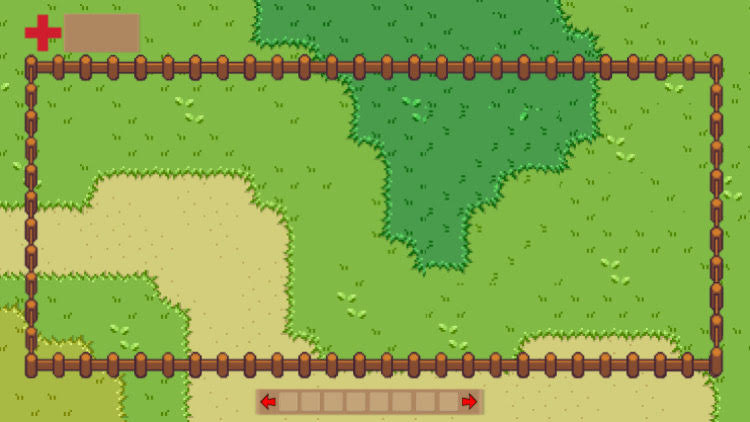
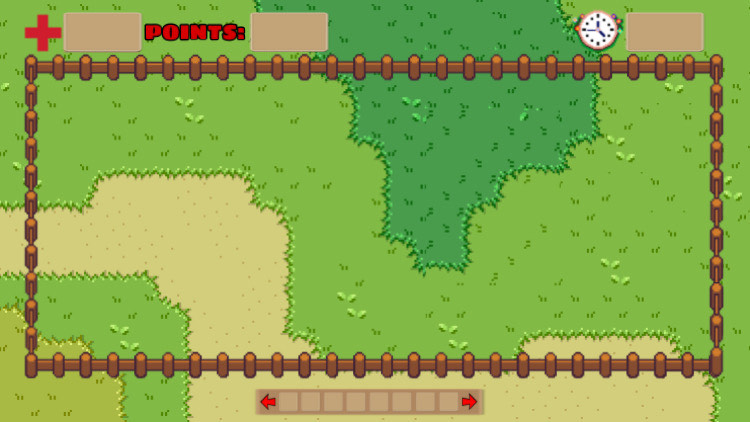
basic game mechanics

Changed region(s): [[0.0613, 0.0308, 0.46, 0.154], [0.7667, 0.0308, 0.9507, 0.1232], [0.6133, 0.9242, 0.644, 0.955]]

diff --git a/ForestKeeper/Game1.cs b/ForestKeeper/Game1.cs
@@ -10,11 +10,13 @@ namespace ForestKeeper
         Texture2D treeImage;
         Texture2D infectedImage;
         Texture2D trunkImage;
-        Vector2 gameSize;
+        Texture2D seedlingImage;
         Engine _engine;
         private GraphicsDeviceManager _graphics;
         private SpriteBatch _spriteBatch;
-
+        MouseState lastMouseState;
+        MouseState currentMouseState;
+        float timer = 0;
         public Game1()
         {
             _graphics = new GraphicsDeviceManager(this);
@@ -38,20 +40,34 @@ namespace ForestKeeper
             _spriteBatch = new SpriteBatch(GraphicsDevice);
             treeImage = Content.Load<Texture2D>("tree1");
             trunkImage = Content.Load<Texture2D>("trunk");
+            seedlingImage = Content.Load<Texture2D>("seedling");
             infectedImage = Content.Load<Texture2D>("infected tree");
             background = Content.Load<Texture2D>("backgroundInGame");
-            // TODO: use this.Content to load your game content here
         }
 
         protected override void Update(GameTime gameTime)
         {
             if (GamePad.GetState(PlayerIndex.One).Buttons.Back == ButtonState.Pressed || Keyboard.GetState().IsKeyDown(Keys.Escape))
                 Exit();
-            MouseState _mouseState = Mouse.GetState();
-            // TODO: Add your update logic here
-            if (_mouseState.LeftButton == ButtonState.Pressed)
+            lastMouseState = currentMouseState;
+            currentMouseState = Mouse.GetState();
+            if (currentMouseState.LeftButton == ButtonState.Released && lastMouseState.LeftButton == ButtonState.Pressed)
             {
-                _engine.trees.ForEach(t => t.CheckClick(_mouseState.X,_mouseState.Y));
+                if (currentMouseState.X>Constants.GameBorderLeft&&
+                    currentMouseState.X<Constants.insideFenceX + Constants.GameBorderLeft&&
+                    currentMouseState.Y>Constants.GameBorderTop&&
+                    currentMouseState.Y<Constants.GameBorderTop + Constants.insideFenceY
+                    )
+                {
+                    //to be optimised by changing List of trees into an array of trees
+                    _engine.trees.ForEach(t => t.CheckClick(currentMouseState.X, currentMouseState.Y));
+                }
+            }
+            timer += (float)gameTime.ElapsedGameTime.TotalSeconds;
+            if(timer>3)
+            {
+                timer = 0;
+               _engine.InfectATree();
             }
             base.Update(gameTime);
         }
@@ -91,6 +107,15 @@ namespace ForestKeeper
                             k.realY,
                             Constants.TreeWidth,
                             Constants.TreeHeight
+                            ),
+                            Color.White);
+                        break;
+                    case 3: //seedling
+                        _spriteBatch.Draw(seedlingImage,
+                            new Rectangle(k.realX+ Constants.SeedlingWidth/2,
+                            k.realY + Constants.SeedlingHeight/2,
+                            Constants.SeedlingWidth,
+                            Constants.SeedlingHeight
                             ),
                             Color.White);
                         break;

diff --git a/ForestKeeper/Constants.cs b/ForestKeeper/Constants.cs
@@ -8,17 +8,21 @@ namespace ForestKeeper
     public static class Constants
     {
         public static int TreesHorizontally = 19; //number of trees horizontally
-        public static int TreesVertically = 5; //number of trees vertically
+        public static int TreesVertically = 6; //number of trees vertically
         public static int gameWidth = GraphicsAdapter.DefaultAdapter.CurrentDisplayMode.Width; //actual screen width
         public static int gameHeight = GraphicsAdapter.DefaultAdapter.CurrentDisplayMode.Height; //actual screen height
+        public static int insideFenceX = 1720;
+        public static int insideFenceY = 730;
         public static int TreeWidth = 79; //width of a tree
         public static int TreeHeight = 97; //height of a tree
+        public static int SeedlingWidth = 40; //width of a tree
+        public static int SeedlingHeight = 60; //height of a tree
         public static int GameBorderLeft = 100;
-        public static int GameBorderRight = 100;
         public static int GameBorderTop = 190;
-        public static int GameBorderDown = 100;
-        public static int TreeIntervalY = gameHeight / 7; //distance between trees vertically
-        public static int TreeIntervalX = gameWidth / 21; //distance between trees horizontally
-        public static int NumberOfStartingTrees = 16;
+        public static int TreeIntervalY = insideFenceY/TreesVertically; //distance between trees vertically
+        public static int TreeIntervalX = insideFenceX/TreesHorizontally; //distance between trees horizontally
+        public static int NumberOfStartingTrees = 13;
+
+        public static int InfectionSpeed = 1;
     }
 }

diff --git a/ForestKeeper/Tree.cs b/ForestKeeper/Tree.cs
@@ -1,12 +1,13 @@
 using System;
 using System.Collections.Generic;
 using System.Text;
+using System.Threading.Tasks;
 
 namespace ForestKeeper
 {
     class Tree
     {
-        public int state; //0 - standing 1 - infected 2 - trunk
+        public int state; //0 - standing 1 - infected 2 - trunk 3 - seedling
         public int x, y, realX, realY;
         public Tree()
         {
@@ -22,6 +23,24 @@ namespace ForestKeeper
             realY = y * Constants.TreeIntervalY + Constants.GameBorderTop;
             state = 0;
         }
+        public async Task Infect()
+        {
+            state = 1;
+            await Task.Delay(1000);
+            if (state == 1)
+            {
+                state = 2;
+            }
+        }
+        public async Task Grow()
+        {
+            await Task.Delay(3000);
+            state = 0;
+        }
+        public void Heal()
+        {
+            if (state == 1) state = 0;
+        }
         public bool CheckClick(int a, int b)
         {
             if( (a>realX) &&
@@ -29,7 +48,7 @@ namespace ForestKeeper
                 (b>realY) &&
                 (b<realY+Constants.TreeHeight) )
             {
-                this.state = 1;
+                Heal();
                 return true;
             }
             return false;

diff --git a/ForestKeeper/Engine.cs b/ForestKeeper/Engine.cs
@@ -41,5 +41,17 @@ namespace ForestKeeper
         {
             return _random.Next(n);
         }
+        public bool InfectATree()
+        {
+            int i = PickATree();
+            int a = i;
+            while(trees[a].state!=0)
+            {
+                a = (a + 1) % trees.Count;
+                if (a == i) return false;
+            }
+            trees[a].Infect();
+            return true;
+        }
     }
 }
